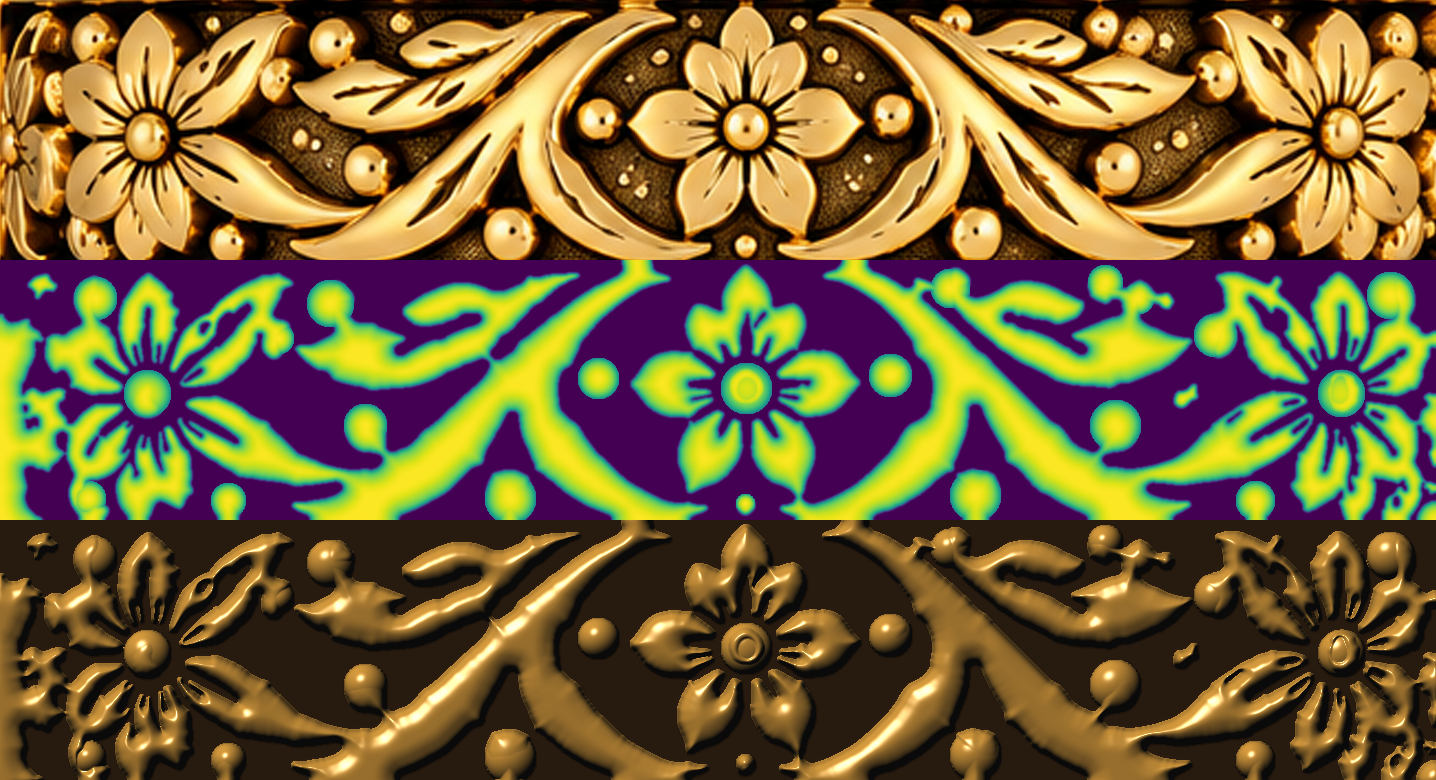
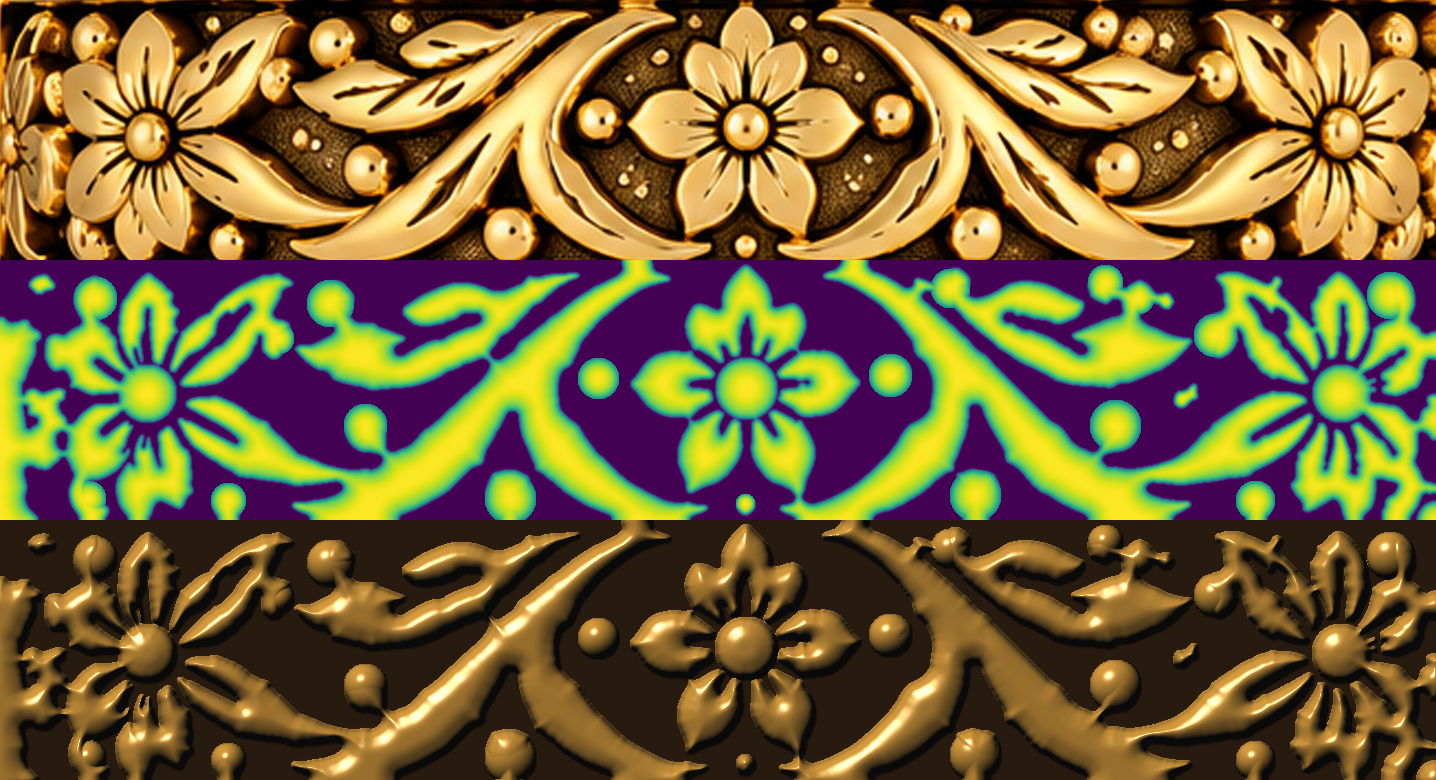
Band: soften petal carve, solid flower centres, seamless mirrored period map

diff --git a/tools/band_heightmap.py b/tools/band_heightmap.py
@@ -33,12 +33,18 @@ m = np.where(zone > .5, small, big).astype(np.uint8)
 
 g8 = cv2.cvtColor(c, cv2.COLOR_BGR2GRAY).astype(np.float32)
 bh = cv2.morphologyEx(cv2.GaussianBlur(g8, (0,0), 1.2), cv2.MORPH_BLACKHAT, cv2.getStructuringElement(cv2.MORPH_ELLIPSE, (13,13)))
-slit = ((bh > 38) & (zone > .5)).astype(np.uint8)
+slit = ((bh > 52) & (zone > .5)).astype(np.uint8)
 slit = cv2.morphologyEx(slit, cv2.MORPH_OPEN, cv2.getStructuringElement(cv2.MORPH_ELLIPSE, (2,2)))
 l, n = ndi.label(slit); sz = ndi.sum(slit, l, range(1, n+1))
 for i, s in enumerate(sz):
-    if s < 60: slit[l == i+1] = 0
+    if s < 90: slit[l == i+1] = 0
 m[slit > 0] = 0
+H_, W_ = m.shape
+for cx, cy, r in ((147,133,24),(746,128,26),(1341,133,24)):
+    cv2.circle(m, (cx, cy), r+5, 1, -1)
+ends = np.zeros_like(m); ends[:, :60] = 1; ends[:, -60:] = 1
+opened = cv2.morphologyEx(m, cv2.MORPH_OPEN, cv2.getStructuringElement(cv2.MORPH_ELLIPSE, (11,11)))
+m = np.where(ends > 0, opened, m).astype(np.uint8)
 l, n = ndi.label(m); sz = ndi.sum(m, l, range(1, n+1))
 for i, s in enumerate(sz):
     if s < 250: m[l == i+1] = 0
@@ -76,3 +82,9 @@ col = np.where(hs[..., None] > .05, col, np.array([18,30,45])/255.*(.6 + .4*dif[
 cv2.imwrite(os.path.join(ROOT, 'maps/band_preview.png'),
             np.vstack([c, cv2.applyColorMap((hs*255).astype(np.uint8), cv2.COLORMAP_VIRIDIS), (np.clip(col,0,1)*255).astype(np.uint8)]))
 print('ok', hs.shape)
+
+# --- seamless repeating unit: big flower centre -> small flower centre, mirrored (big flower at both ends) ---
+A = hs[:, 147:747]
+period = np.hstack([A, A[:, ::-1][:, 1:]])
+cv2.imwrite(os.path.join(ROOT, 'maps/band_period.png'), (period*65535).astype(np.uint16))
+print('period', period.shape)
